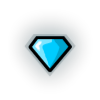
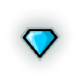
보석 사이즈수정, 늪 위치 조정

diff --git a/fbwg game/src/fbwg_1/Stage.java b/fbwg game/src/fbwg_1/Stage.java
@@ -72,8 +72,8 @@ public class Stage extends Thread{
 	
 		@Override
 		public void run() {
-			makeItems(new Watertem(600,170));
-			makeItems(new Firetem(100,100));
+			makeItems(new Watertem(685,650));
+			makeItems(new Firetem(485,650));
 			fireList.add(Level1.f1);
 			waterList.add(Level1.w1);
 			bogList.add(Level1.b1);
